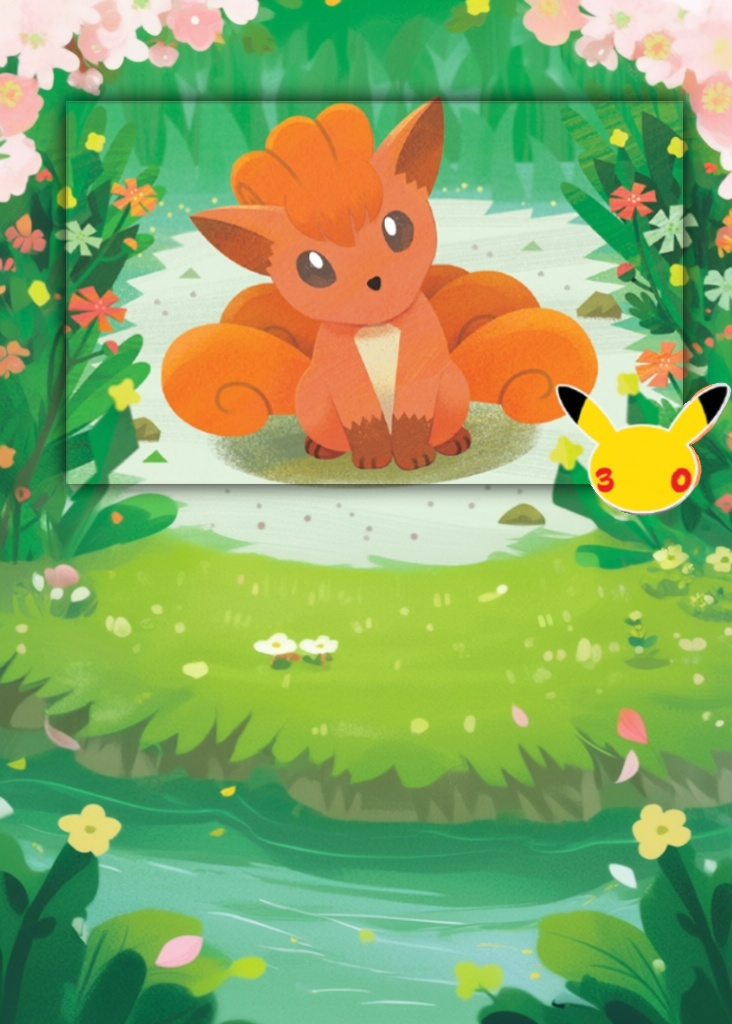
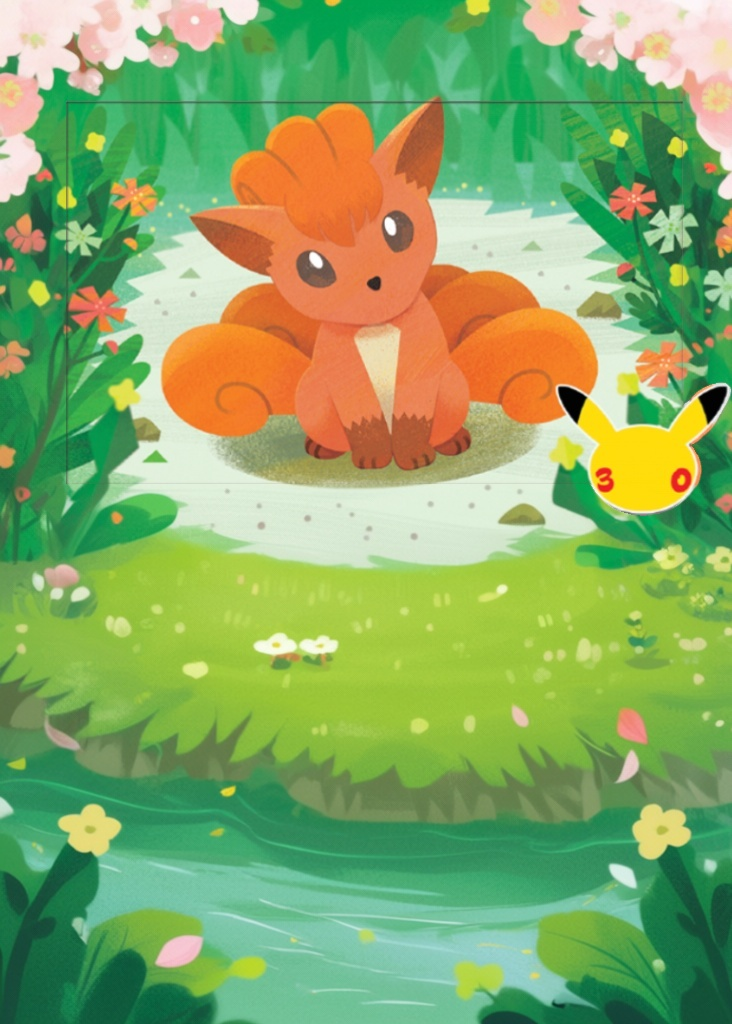
v3 strict: full 617x383 window pixel-exact (236,311 px, MAE 0.0), hard edge

Changed region(s): [[0.0601, 0.0625, 0.9617, 0.4688], [0.0902, 0.4688, 0.8115, 0.5]]

diff --git a/scripts/compose_window_card.py b/scripts/compose_window_card.py
@@ -61,7 +61,8 @@ def main():
     # exact illustration content; 3 px anti-aliased outer edge only
     wm = Image.new("L", (W, H), 0)
     wm.paste(Image.new("L", window.size, 255), (WIN[0], WIN[1]))
-    wm = wm.filter(ImageFilter.GaussianBlur(10))
+    # hard edge: the full window must be pixel-exact
+    # wm is used as-is
     wlayer = Image.new("RGBA", (W, H), (0, 0, 0, 0))
     wlayer.paste(window, (WIN[0], WIN[1])); wlayer.putalpha(wm)
     card.alpha_composite(wlayer)

diff --git a/README.md b/README.md
@@ -22,9 +22,9 @@ unchanged. **Only the card area outside the window is out-painted.**
 
 - Window rect in both source and final: **x 66..683, y 101..484**, size
   **617×383**, aspect **1.611**. No scale, shift, stretch, or crop.
-- Content interior (12 px erosion, **212,887 px**): **MAE 0.003/255**, max **3**
-  (PNG rounding + the 10 px boundary feather). The fox/background are the
-  source pixels.
+- The **entire 617×383 window (236,311 px)** is pixel-exact: **MAE 0.0**,
+  max **0**. No crop, feather, scale, or shift. The fox, background and window
+  rim are the source pixels.
 - The 30th-anniversary sticker is preserved as a decal at its source position.
 - No text, gradient, grade, vignette or border is drawn over the window: the top
   gradient stops at y=94, the bottom starts at y=502, and a protect mask keeps
@@ -43,9 +43,9 @@ unchanged. **Only the card area outside the window is out-painted.**
    [ausboss outpaint LoRA v2](https://huggingface.co/ausboss/Qwen-Image-2.1-Outpaint-LoRA);
    25 steps, CFG 1, `euler`/`simple`. Two prompts/seeds: spring path/stream and
    cherry-blossom meadow.
-3. **Exact composite.** Paste the original 617×383 content and sticker back at
-   their source coordinates. The interior is untouched; a 10 px feather only
-   softens the outer boundary into the generated surround.
+3. **Exact composite.** Paste the original 617×383 content and sticker back,
+   hard-edged, at their exact source coordinates. The full window is
+   pixel-identical; only the outside is generated.
 4. **Card chrome outside the window.** Lato typography, vector energy symbols,
    SIR footer, transparent rounded card. The grade/vignette/text gradients are
    confined outside the window.
